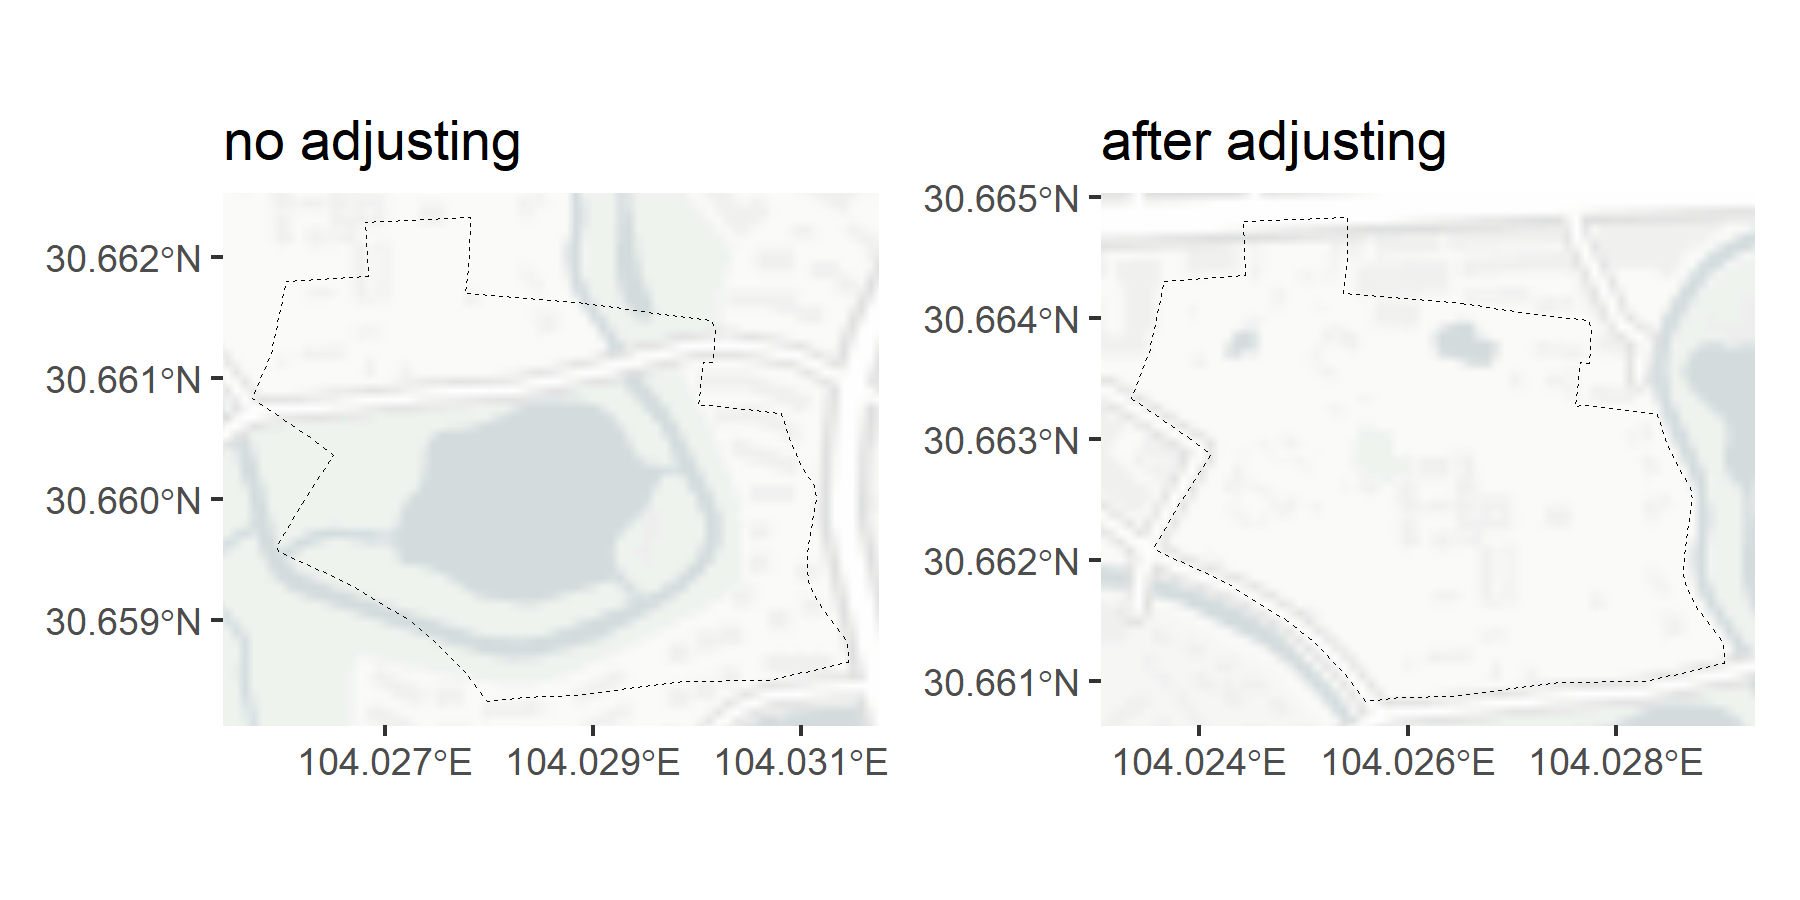
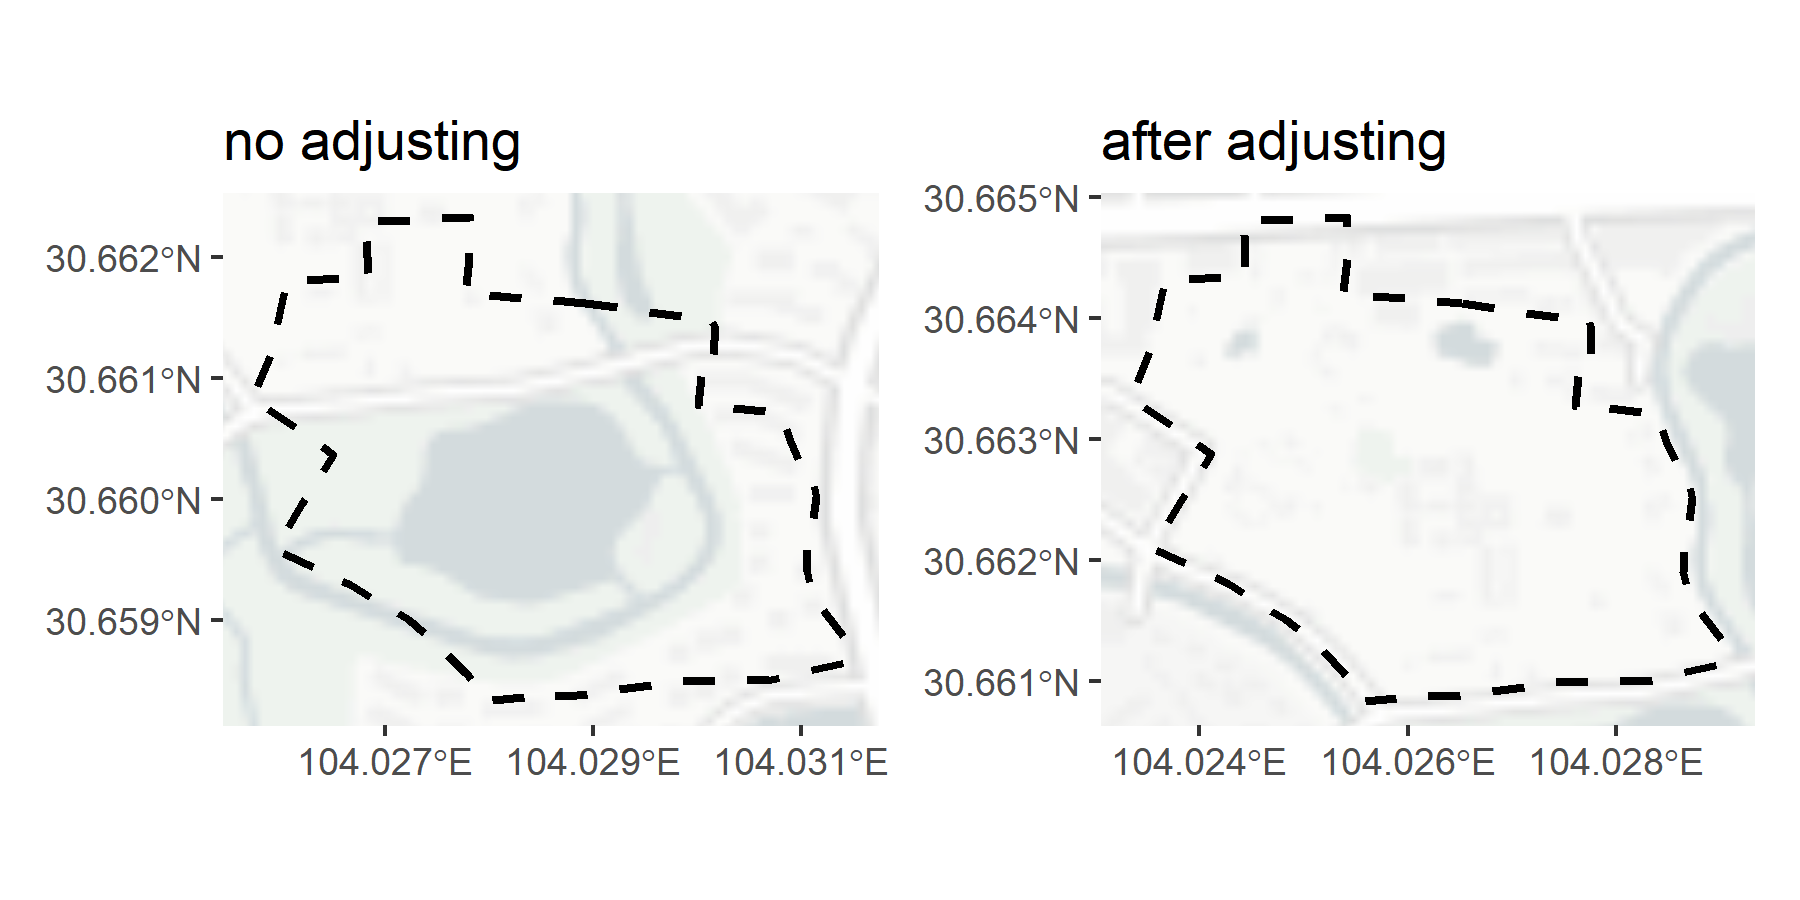
readme figure modification

diff --git a/README.md b/README.md
@@ -108,12 +108,12 @@ example2_adjusted = example_museum |>
 
 museum_before = ggplot()+
   ggspatial::annotation_map_tile(type = 'cartolight_nolabel',zoom = 14,progress ="none")+
-  geom_sf(data = example_museum,fill = "transparent",color = 'black',linetype = 2)+
+  geom_sf(data = example_museum,fill = "transparent",color = 'black',linetype = 2,linewidth = 1)+
   labs(title = "no adjusting")+
   scale_x_continuous(breaks = c( 104.027,104.029,104.031))
 museum_after =  ggplot()+
   ggspatial::annotation_map_tile(type = 'cartolight_nolabel',zoom = 14,progress ="none")+
-  geom_sf(data = example_museum |> st_crs_adjust(),fill = "transparent",color = 'black',linetype = 2)+
+  geom_sf(data = example_museum |> st_crs_adjust(),fill = "transparent",color = 'black',linetype = 2,linewidth = 1)+
   labs(title = "after adjusting")+
   scale_x_continuous(breaks = c(104.024, 104.026,104.028))
 
